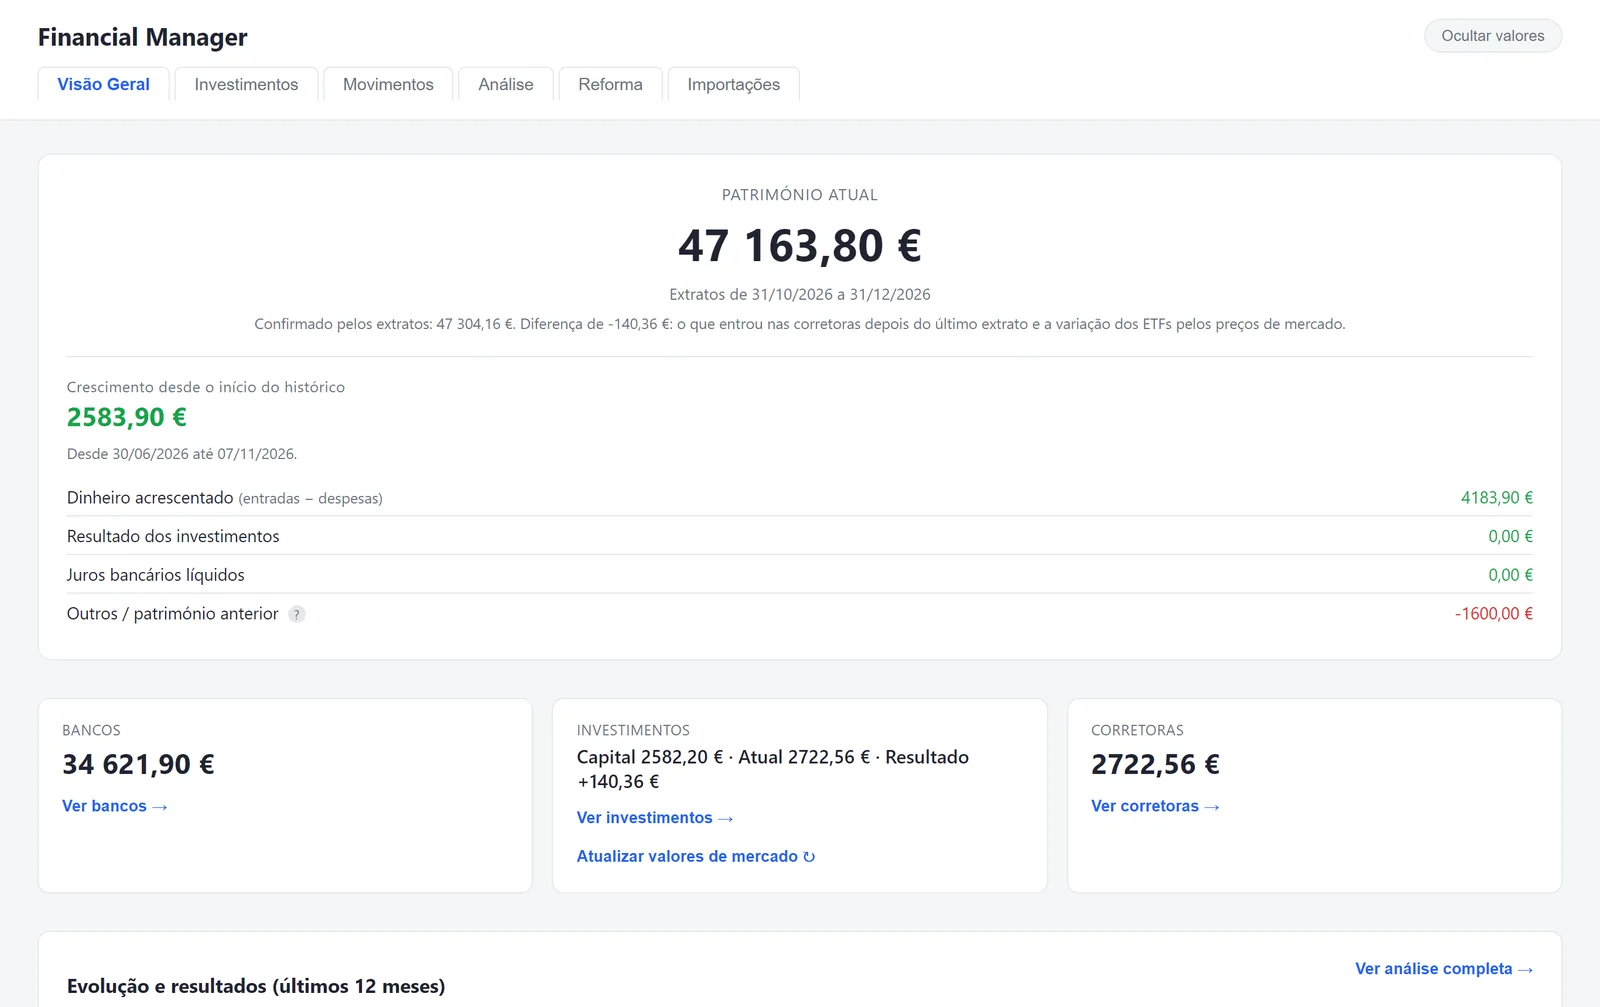
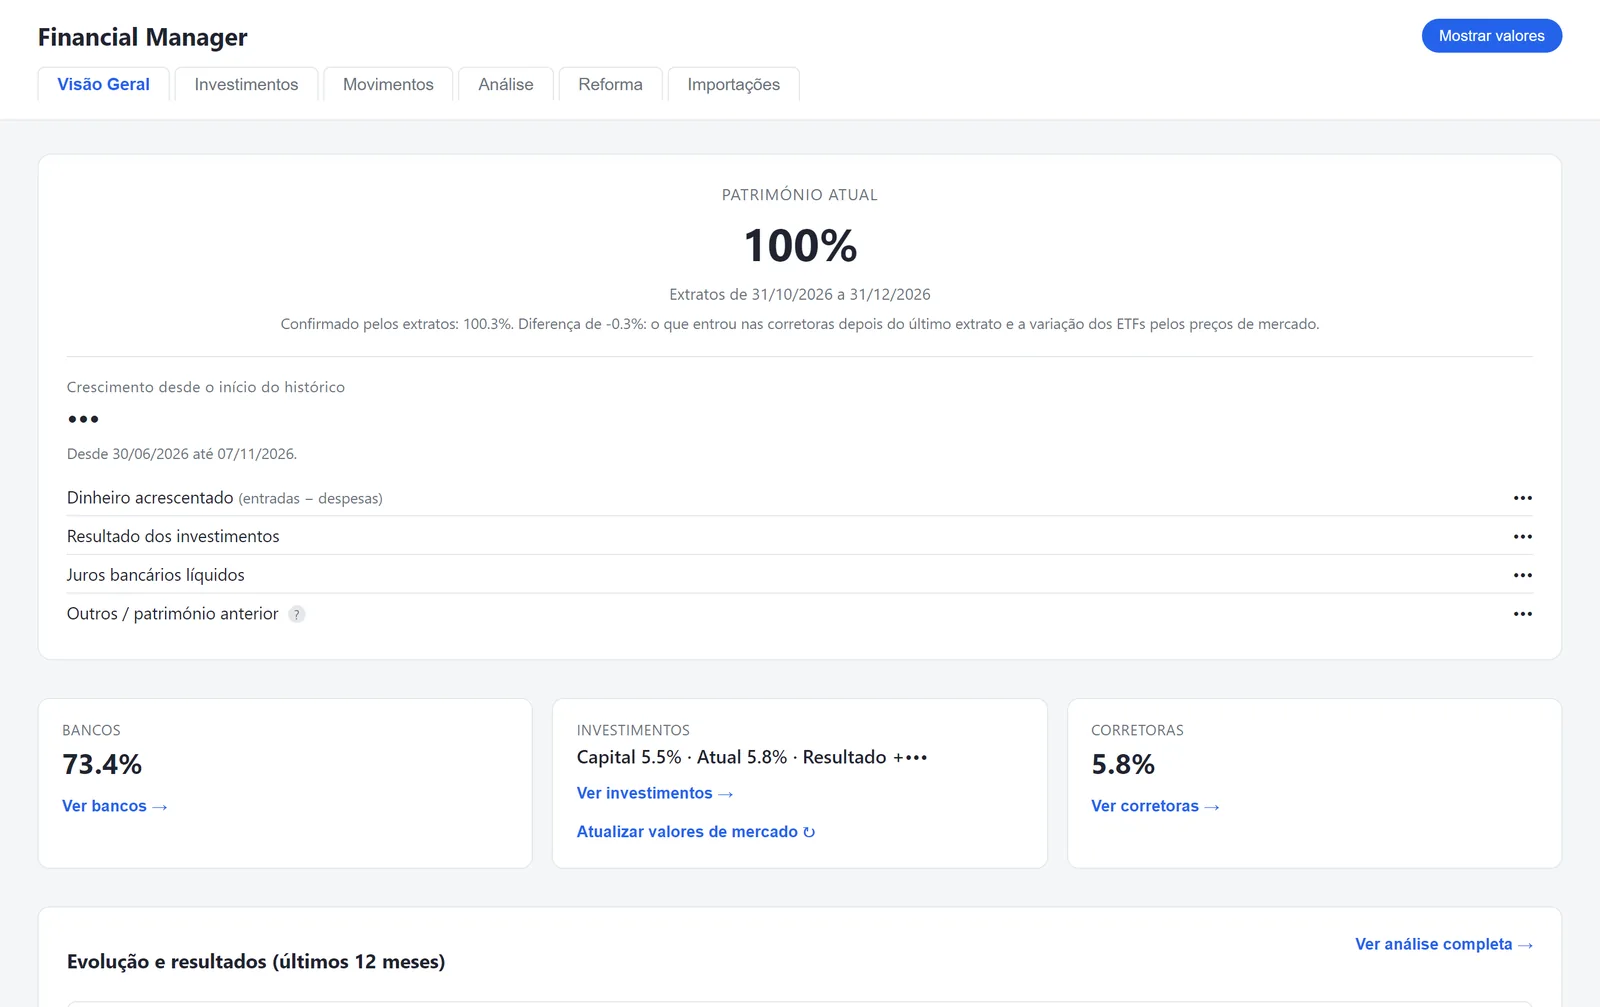
Show Financial Manager screenshots in percentages only
Recapture every Financial Manager screen with the app's privacy mode on,
so amounts are hidden and only percentages appear. Remove the screenshots
that showed (invented) euro amounts, including the side-by-side privacy
example, and update the gallery note.

diff --git a/projects/finance.html b/projects/finance.html
@@ -1,1 +1,1 @@
-<!doctype html><html lang="en"><head><meta charset="utf-8"><meta name="viewport" content="width=device-width,initial-scale=1"><title>Financial Manager — Tiago Lab</title><meta name="description" content="Financial Manager — a local personal finance app that reads bank and broker statements and tracks wealth, spending and investments over time."><link rel="icon" type="image/png" href="../assets/favicon.png"><link rel="stylesheet" href="../css/style.css"><style>.case{max-width:1000px;margin:0 auto;padding:75px 24px 100px}.case .eyebrow{color:#197ac3;font-weight:800;letter-spacing:.12em;font-size:.75rem}.case h1{font-size:clamp(3rem,9vw,6rem);line-height:.96;letter-spacing:-.06em;margin:20px 0}.case h1 span{color:#1674b5}.lead{font-size:clamp(1.1rem,2vw,1.35rem);max-width:720px;color:#4d6b85}.features{display:grid;grid-template-columns:repeat(3,1fr);gap:18px;margin:55px 0}.feature{background:#eaf3fa;padding:24px;border-radius:9px}.feature h2{font-size:1.1rem;margin:0 0 10px}.feature p{margin:0;color:#4d6b85}.availability{padding:24px;background:#f4f8fc;border-left:4px solid #168fe0;margin:36px 0}.links{display:flex;gap:20px;flex-wrap:wrap}.links a{color:#1268b3;font-weight:700}.book-layout{display:grid;grid-template-columns:250px 1fr;gap:55px;align-items:start}.book-layout img{width:100%;height:auto;border-radius:5px;box-shadow:0 12px 35px #0c284b33}@media(max-width:700px){.features{grid-template-columns:1fr}.book-layout{grid-template-columns:1fr}.book-layout img{width:180px}.case{padding-top:48px}} .case-nav{display:flex;gap:18px;color:#d4e4f2;font-size:.85rem;flex-wrap:wrap}@media(max-width:520px){.case-nav{gap:10px;font-size:.72rem}.case-nav a:nth-child(n+3){display:none}}</style><link rel="stylesheet" href="../css/gallery.css"></head><body><header class="site-header"><div class="container nav-wrap"><a class="brand" href="../index.html">TIAGO <span>LAB</span></a><nav class="case-nav" aria-label="Main navigation"><a href="../index.html#projects">Projects</a><a href="../index.html#ai-lab">AI Lab</a><a href="../index.html#about">About</a><a href="../cv.html">CV</a></nav></div></header><main class="case"><p class="eyebrow">PERSONAL FINANCE · IN DEVELOPMENT</p><h1>Financial<br><span>Manager.</span></h1><p class="lead"><strong>Bank and broker statements in, a clear picture out.</strong></p><p class="lead">A local app that reads statements from banks and brokers, confirms each value with the user and builds a history of wealth, income, spending and investments. Everything stays on the computer, in a local database.</p><div class="features"><article class="feature"><h2>Statements, not spreadsheets</h2><p>Import PDF, CSV and Excel statements in bulk; the app detects the institution, reads the balance and the movements, and asks for confirmation.</p></article><article class="feature"><h2>Investments and evolution</h2><p>Positions, results and monthly evolution, with banks and investments shown separately.</p></article><article class="feature"><h2>Privacy mode</h2><p>One click hides the amounts and shows percentages instead — useful for demos and screen sharing.</p></article></div><!-- gallery:start --><section class="app-gallery app-gallery-wide" aria-label="Screenshots"><div class="gallery-head"><p class="gallery-eyebrow">Screenshots</p><h2>Inside the app</h2><p>All amounts, bank movements and investments below are invented demo data.</p></div><div class="gallery-grid"><figure class="shot"><a href="../assets/screenshots/finance/geral.webp" target="_blank" rel="noopener"><img src="../assets/screenshots/finance/geral.webp" width="1600" height="1007" loading="lazy" alt="Overview — Current wealth, growth since the first statement and where it came from."></a><figcaption><span>01</span><strong>Overview</strong>Current wealth, growth since the first statement and where it came from.</figcaption></figure><figure class="shot"><a href="../assets/screenshots/finance/geral-privacy.webp" target="_blank" rel="noopener"><img src="../assets/screenshots/finance/geral-privacy.webp" width="1600" height="1007" loading="lazy" alt="Privacy mode — The same overview with amounts hidden and percentages shown instead."></a><figcaption><span>02</span><strong>Privacy mode</strong>The same overview with amounts hidden and percentages shown instead.</figcaption></figure><figure class="shot"><a href="../assets/screenshots/finance/investimentos.webp" target="_blank" rel="noopener"><img src="../assets/screenshots/finance/investimentos.webp" width="1600" height="1007" loading="lazy" alt="Investments — Invested capital, current value and results, per broker."></a><figcaption><span>03</span><strong>Investments</strong>Invested capital, current value and results, per broker.</figcaption></figure><figure class="shot"><a href="../assets/screenshots/finance/movimentos.webp" target="_blank" rel="noopener"><img src="../assets/screenshots/finance/movimentos.webp" width="1600" height="1007" loading="lazy" alt="Banks and movements — Balances per bank and every movement read from the statements."></a><figcaption><span>04</span><strong>Banks and movements</strong>Balances per bank and every movement read from the statements.</figcaption></figure><figure class="shot"><a href="../assets/screenshots/finance/analise.webp" target="_blank" rel="noopener"><img src="../assets/screenshots/finance/analise.webp" width="1600" height="1007" loading="lazy" alt="Monthly analysis — Income, spending, savings and investment, month by month."></a><figcaption><span>05</span><strong>Monthly analysis</strong>Income, spending, savings and investment, month by month.</figcaption></figure></div></section><!-- gallery:end --><section class="availability"><h2>Availability</h2><p>The app is used privately and has no public download. Its data never leaves the computer.</p></section><div class="links"><a href="../index.html#projects">← All projects</a></div></main><footer class="site-footer"><div class="container footer-inner"><strong>TIAGO LAB</strong><span>Ideas · Products · Experiments</span><a href="../index.html#projects">Back to projects</a></div></footer></body></html>
+<!doctype html><html lang="en"><head><meta charset="utf-8"><meta name="viewport" content="width=device-width,initial-scale=1"><title>Financial Manager — Tiago Lab</title><meta name="description" content="Financial Manager — a local personal finance app that reads bank and broker statements and tracks wealth, spending and investments over time."><link rel="icon" type="image/png" href="../assets/favicon.png"><link rel="stylesheet" href="../css/style.css"><style>.case{max-width:1000px;margin:0 auto;padding:75px 24px 100px}.case .eyebrow{color:#197ac3;font-weight:800;letter-spacing:.12em;font-size:.75rem}.case h1{font-size:clamp(3rem,9vw,6rem);line-height:.96;letter-spacing:-.06em;margin:20px 0}.case h1 span{color:#1674b5}.lead{font-size:clamp(1.1rem,2vw,1.35rem);max-width:720px;color:#4d6b85}.features{display:grid;grid-template-columns:repeat(3,1fr);gap:18px;margin:55px 0}.feature{background:#eaf3fa;padding:24px;border-radius:9px}.feature h2{font-size:1.1rem;margin:0 0 10px}.feature p{margin:0;color:#4d6b85}.availability{padding:24px;background:#f4f8fc;border-left:4px solid #168fe0;margin:36px 0}.links{display:flex;gap:20px;flex-wrap:wrap}.links a{color:#1268b3;font-weight:700}.book-layout{display:grid;grid-template-columns:250px 1fr;gap:55px;align-items:start}.book-layout img{width:100%;height:auto;border-radius:5px;box-shadow:0 12px 35px #0c284b33}@media(max-width:700px){.features{grid-template-columns:1fr}.book-layout{grid-template-columns:1fr}.book-layout img{width:180px}.case{padding-top:48px}} .case-nav{display:flex;gap:18px;color:#d4e4f2;font-size:.85rem;flex-wrap:wrap}@media(max-width:520px){.case-nav{gap:10px;font-size:.72rem}.case-nav a:nth-child(n+3){display:none}}</style><link rel="stylesheet" href="../css/gallery.css"></head><body><header class="site-header"><div class="container nav-wrap"><a class="brand" href="../index.html">TIAGO <span>LAB</span></a><nav class="case-nav" aria-label="Main navigation"><a href="../index.html#projects">Projects</a><a href="../index.html#ai-lab">AI Lab</a><a href="../index.html#about">About</a><a href="../cv.html">CV</a></nav></div></header><main class="case"><p class="eyebrow">PERSONAL FINANCE · IN DEVELOPMENT</p><h1>Financial<br><span>Manager.</span></h1><p class="lead"><strong>Bank and broker statements in, a clear picture out.</strong></p><p class="lead">A local app that reads statements from banks and brokers, confirms each value with the user and builds a history of wealth, income, spending and investments. Everything stays on the computer, in a local database.</p><div class="features"><article class="feature"><h2>Statements, not spreadsheets</h2><p>Import PDF, CSV and Excel statements in bulk; the app detects the institution, reads the balance and the movements, and asks for confirmation.</p></article><article class="feature"><h2>Investments and evolution</h2><p>Positions, results and monthly evolution, with banks and investments shown separately.</p></article><article class="feature"><h2>Privacy mode</h2><p>One click hides the amounts and shows percentages instead — useful for demos and screen sharing.</p></article></div><!-- gallery:start --><section class="app-gallery app-gallery-wide" aria-label="Screenshots"><div class="gallery-head"><p class="gallery-eyebrow">Screenshots</p><h2>Inside the app</h2><p>Shown in the app&#x27;s privacy mode: amounts are hidden and only percentages appear. The underlying data is invented.</p></div><div class="gallery-grid"><figure class="shot"><a href="../assets/screenshots/finance/geral.webp" target="_blank" rel="noopener"><img src="../assets/screenshots/finance/geral.webp" width="1600" height="1007" loading="lazy" alt="Overview — Wealth split between banks and brokers, and where growth came from."></a><figcaption><span>01</span><strong>Overview</strong>Wealth split between banks and brokers, and where growth came from.</figcaption></figure><figure class="shot"><a href="../assets/screenshots/finance/investimentos.webp" target="_blank" rel="noopener"><img src="../assets/screenshots/finance/investimentos.webp" width="1600" height="1007" loading="lazy" alt="Investments — Capital, current value and results per broker, as shares of the total."></a><figcaption><span>02</span><strong>Investments</strong>Capital, current value and results per broker, as shares of the total.</figcaption></figure><figure class="shot"><a href="../assets/screenshots/finance/movimentos.webp" target="_blank" rel="noopener"><img src="../assets/screenshots/finance/movimentos.webp" width="1600" height="1007" loading="lazy" alt="Banks and movements — Each bank&#x27;s share and every movement read from the statements."></a><figcaption><span>03</span><strong>Banks and movements</strong>Each bank&#x27;s share and every movement read from the statements.</figcaption></figure><figure class="shot"><a href="../assets/screenshots/finance/analise.webp" target="_blank" rel="noopener"><img src="../assets/screenshots/finance/analise.webp" width="1600" height="1007" loading="lazy" alt="Monthly analysis — Income, spending, savings and investment, month by month."></a><figcaption><span>04</span><strong>Monthly analysis</strong>Income, spending, savings and investment, month by month.</figcaption></figure></div></section><!-- gallery:end --><section class="availability"><h2>Availability</h2><p>The app is used privately and has no public download. Its data never leaves the computer.</p></section><div class="links"><a href="../index.html#projects">← All projects</a></div></main><footer class="site-footer"><div class="container footer-inner"><strong>TIAGO LAB</strong><span>Ideas · Products · Experiments</span><a href="../index.html#projects">Back to projects</a></div></footer></body></html>
